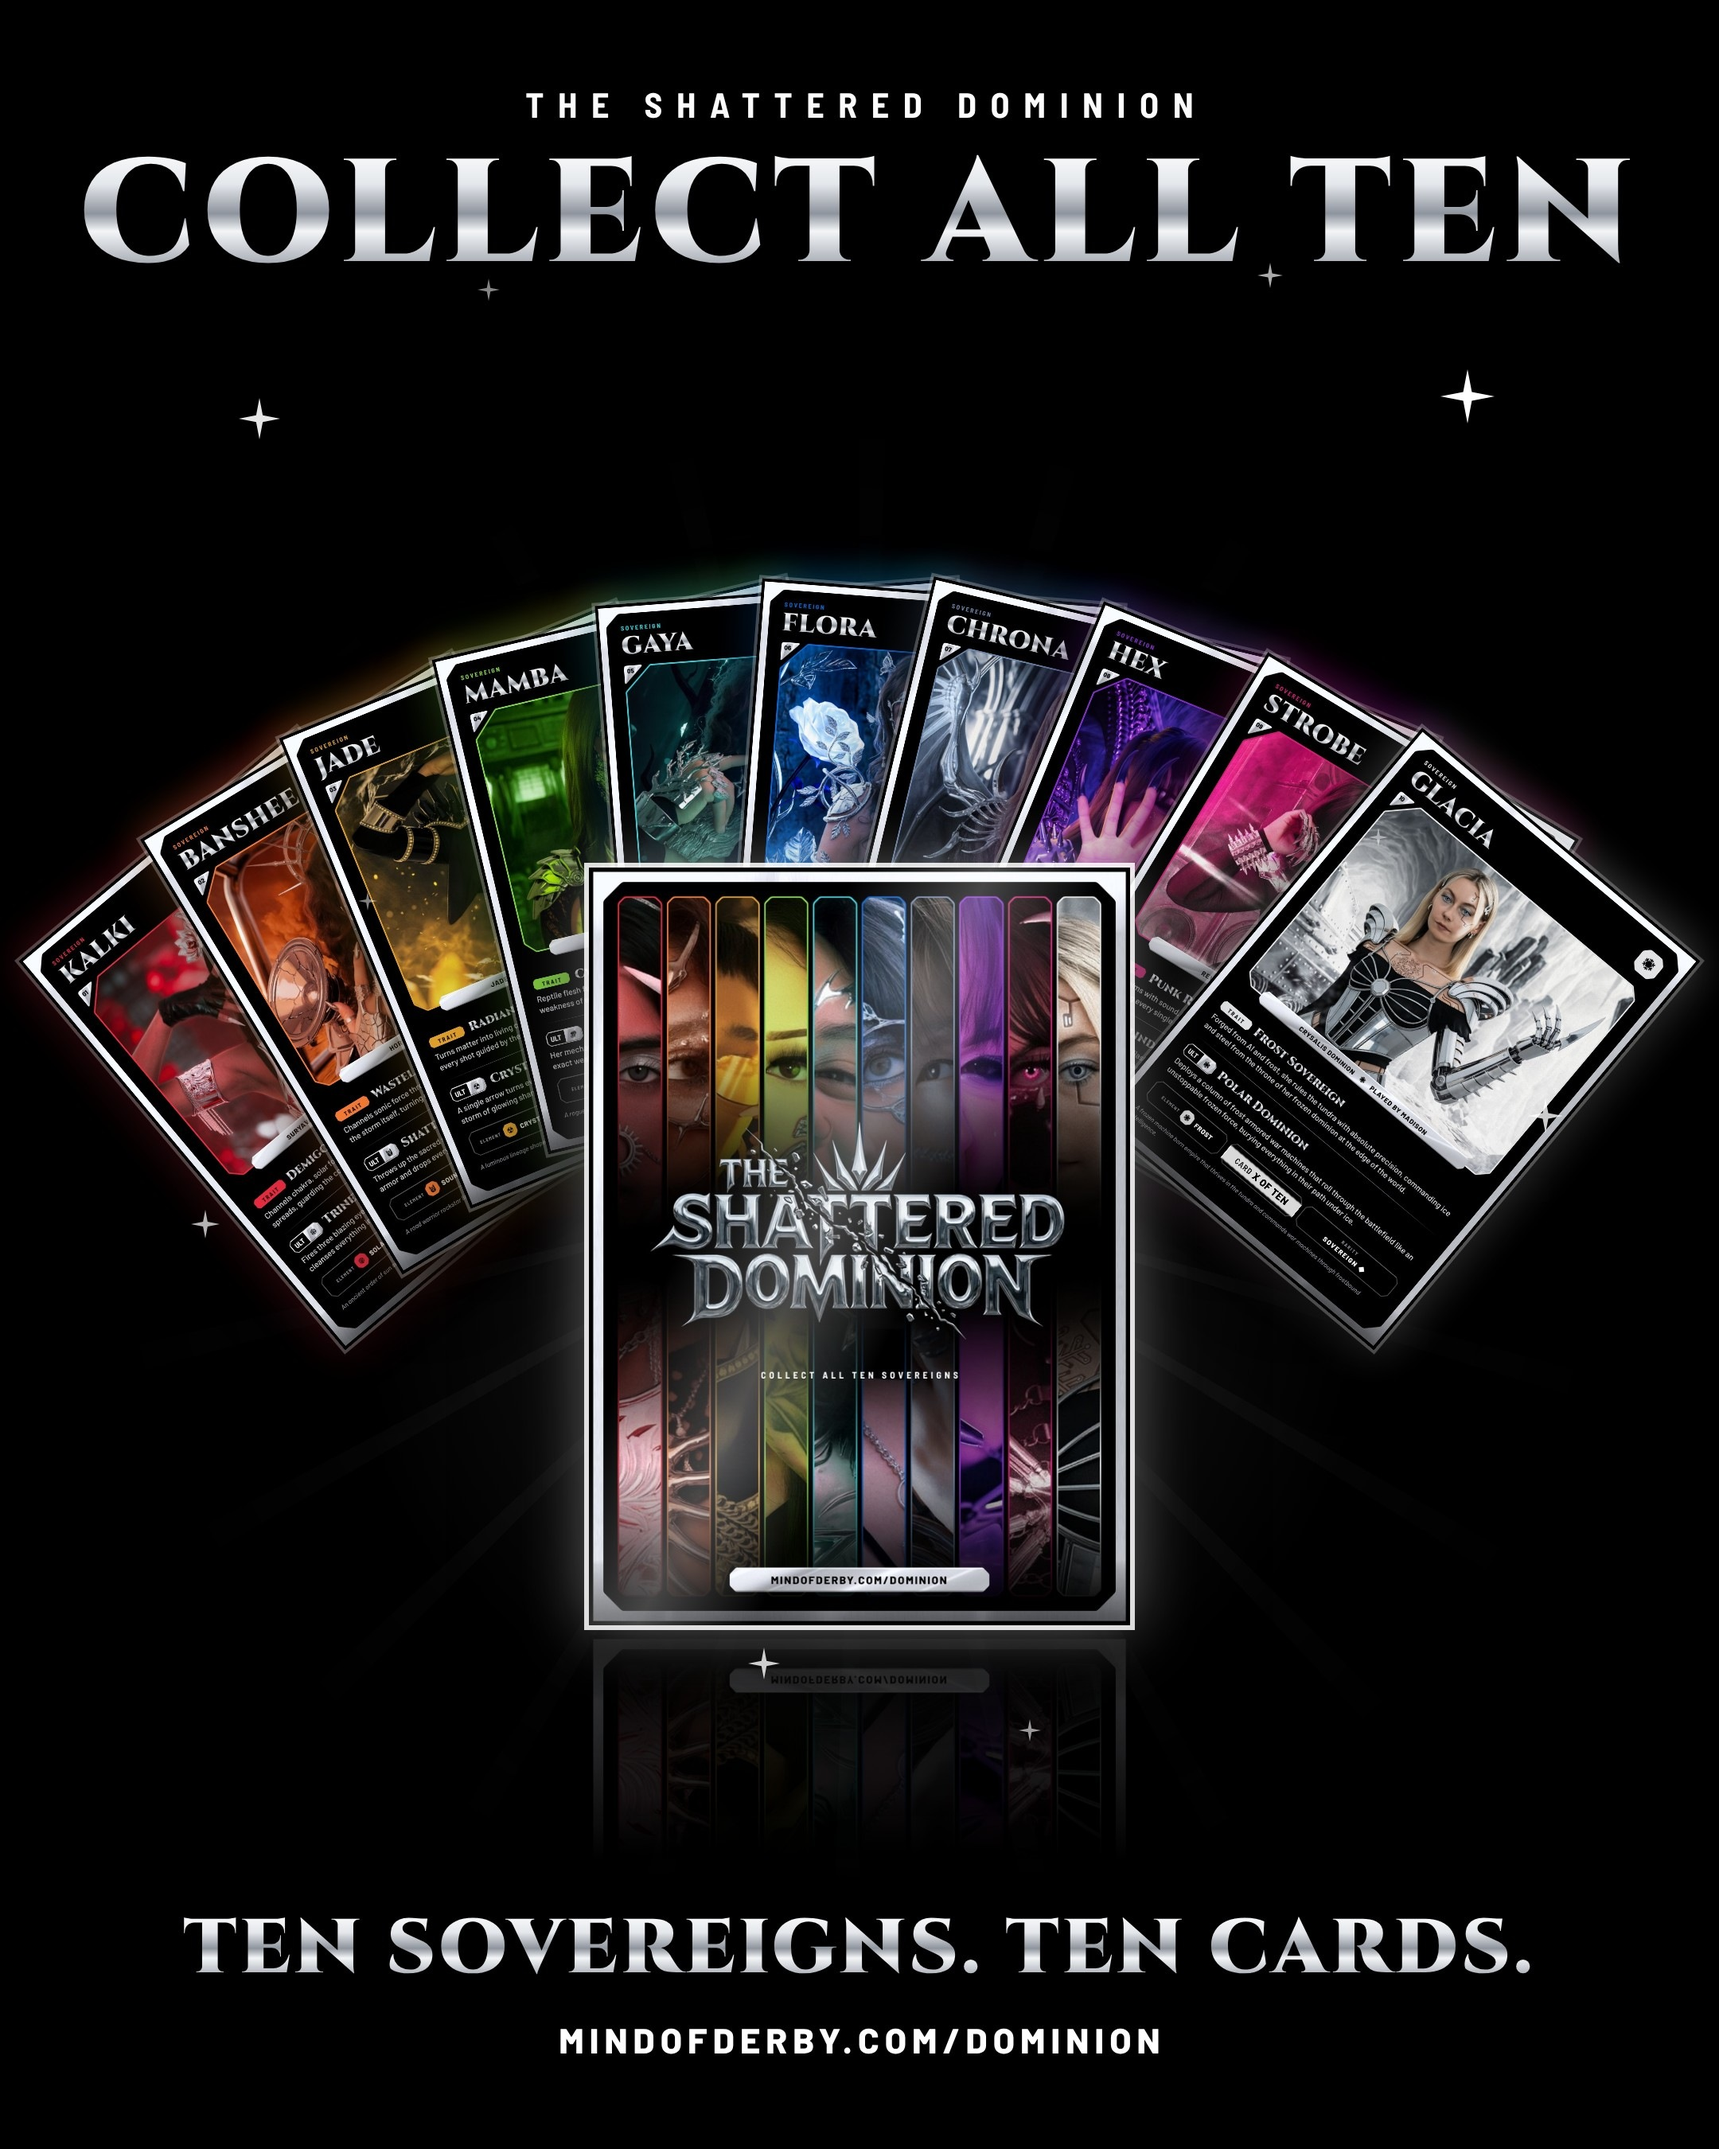
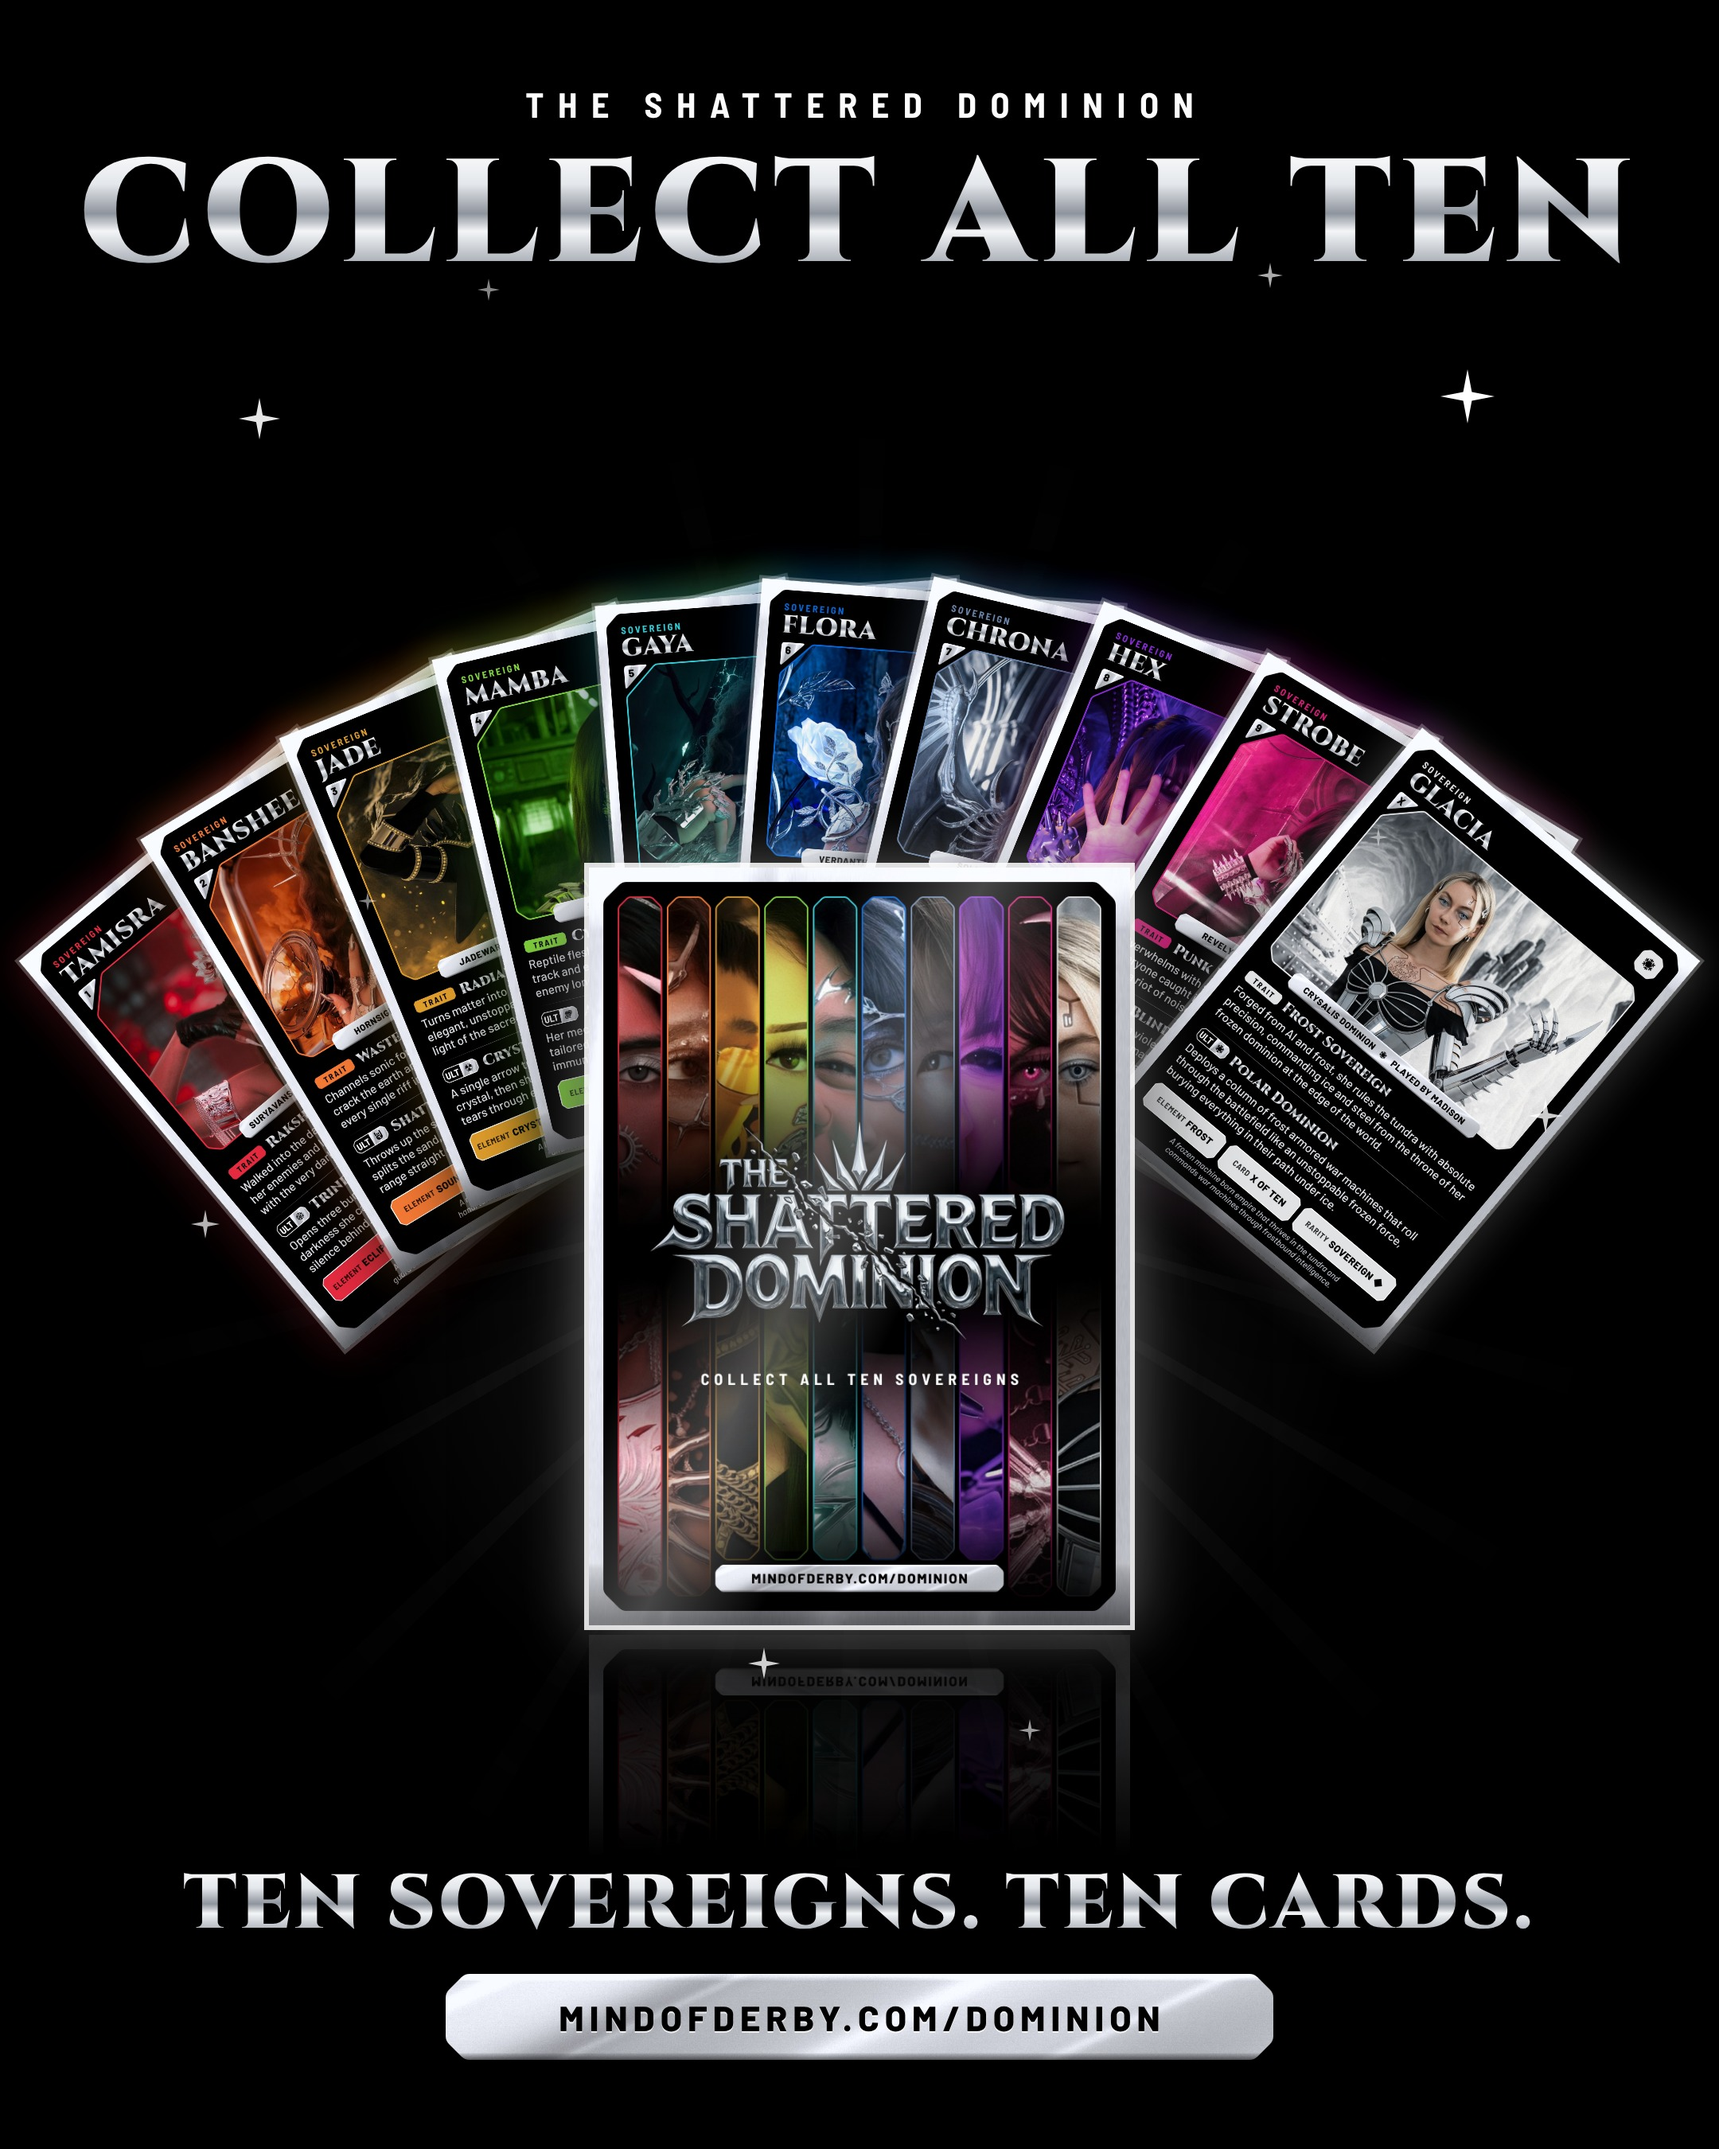
Hex chin ring removed (new close master) and Mamba chest fix on cards; case-study card images re-rendered with current names
Claude-Session: https://claude.ai/code/session_01XqBoTDZG36PsB1FtNjsWYS

diff --git a/book/index.html b/book/index.html
@@ -166,7 +166,7 @@ footer img{width:54px}
 <section class="cardsec"><div class="wrap">
 <div class="head"><span class="eyebrow">Collect all ten</span><h2 class="chrome">The Cards</h2></div>
 <p>Ten collectible trading cards, one per sovereign, with her trait, her ult and her element. The back of every card opens the realms.</p>
-<div class="fan"><img class="fc" src="cards/card-01-tamisra.jpg?v=2" alt="Tamisra trading card" style="left:14.00%;top:62.00%;--r:-30.0deg;z-index:95"><img class="fc" src="cards/card-02-banshee.jpg?v=2" alt="Banshee trading card" style="left:21.20%;top:57.20%;--r:-24.0deg;z-index:96"><img class="fc" src="cards/card-03-jade.jpg?v=2" alt="Jade trading card" style="left:28.40%;top:53.07%;--r:-18.0deg;z-index:97"><img class="fc" src="cards/card-04-mamba.jpg?v=2" alt="Mamba trading card" style="left:35.60%;top:49.69%;--r:-12.0deg;z-index:98"><img class="fc" src="cards/card-05-gaya.jpg?v=2" alt="Gaya trading card" style="left:42.80%;top:47.22%;--r:-6.0deg;z-index:99"><img class="fc back" src="cards/card-back.jpg" alt="Card back" style="left:50.00%;top:46.00%;--r:0.0deg;z-index:100"><img class="fc" src="cards/card-06-flora.jpg?v=2" alt="Flora trading card" style="left:57.20%;top:47.22%;--r:6.0deg;z-index:99"><img class="fc" src="cards/card-07-chrona.jpg?v=2" alt="Chrona trading card" style="left:64.40%;top:49.69%;--r:12.0deg;z-index:98"><img class="fc" src="cards/card-08-hex.jpg?v=2" alt="Hex trading card" style="left:71.60%;top:53.07%;--r:18.0deg;z-index:97"><img class="fc" src="cards/card-09-strobe.jpg?v=2" alt="Strobe trading card" style="left:78.80%;top:57.20%;--r:24.0deg;z-index:96"><img class="fc" src="cards/card-10-glacia.jpg?v=2" alt="Glacia trading card" style="left:86.00%;top:62.00%;--r:30.0deg;z-index:95"></div>
+<div class="fan"><img class="fc" src="cards/card-01-tamisra.jpg?v=2" alt="Tamisra trading card" style="left:14.00%;top:62.00%;--r:-30.0deg;z-index:95"><img class="fc" src="cards/card-02-banshee.jpg?v=2" alt="Banshee trading card" style="left:21.20%;top:57.20%;--r:-24.0deg;z-index:96"><img class="fc" src="cards/card-03-jade.jpg?v=2" alt="Jade trading card" style="left:28.40%;top:53.07%;--r:-18.0deg;z-index:97"><img class="fc" src="cards/card-04-mamba.jpg?v=3" alt="Mamba trading card" style="left:35.60%;top:49.69%;--r:-12.0deg;z-index:98"><img class="fc" src="cards/card-05-gaya.jpg?v=2" alt="Gaya trading card" style="left:42.80%;top:47.22%;--r:-6.0deg;z-index:99"><img class="fc back" src="cards/card-back.jpg" alt="Card back" style="left:50.00%;top:46.00%;--r:0.0deg;z-index:100"><img class="fc" src="cards/card-06-flora.jpg?v=2" alt="Flora trading card" style="left:57.20%;top:47.22%;--r:6.0deg;z-index:99"><img class="fc" src="cards/card-07-chrona.jpg?v=2" alt="Chrona trading card" style="left:64.40%;top:49.69%;--r:12.0deg;z-index:98"><img class="fc" src="cards/card-08-hex.jpg?v=3" alt="Hex trading card" style="left:71.60%;top:53.07%;--r:18.0deg;z-index:97"><img class="fc" src="cards/card-09-strobe.jpg?v=2" alt="Strobe trading card" style="left:78.80%;top:57.20%;--r:24.0deg;z-index:96"><img class="fc" src="cards/card-10-glacia.jpg?v=2" alt="Glacia trading card" style="left:86.00%;top:62.00%;--r:30.0deg;z-index:95"></div>
 </div></section>
 <section id="get"><div class="wrap get">
 <span class="eyebrow">First printing</span><h2 class="chrome">Join the Waitlist</h2>
